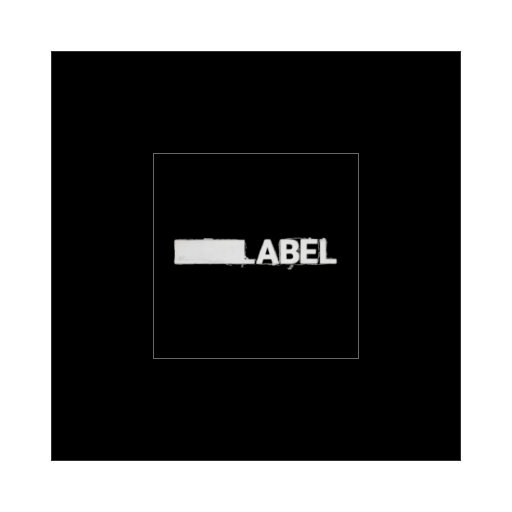
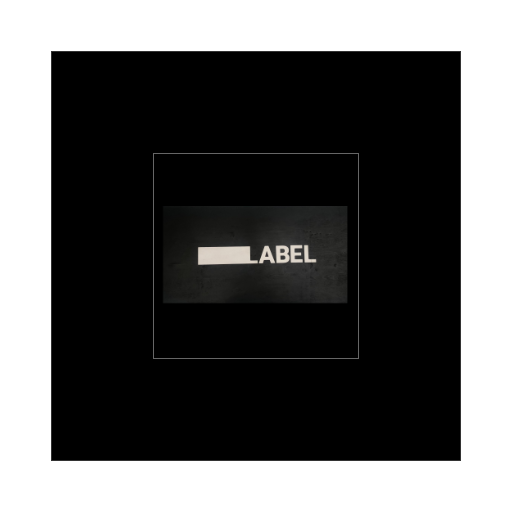
ffflabel2

Changed region(s): [[0.3125, 0.375, 0.6875, 0.5938]]

diff --git a/mobile.html b/mobile.html
@@ -18,7 +18,11 @@
         <a-box color="tomato"></a-box>
     </a-marker>
     <a-marker type="pattern" preset="custom" url="https://raw.githubusercontent.com/lump1k/arjs/master/markers/ffflabel.patt">
-        <a-entity geometry="primitive:box" material="shader:gif;src:url(https://raw.githubusercontent.com/lump1k/arjs/master/images/galley.gif);" gif=""></a-entity>
+        <a-entity geometry="primitive:box" material="shader:gif;src:url(https://raw.githubusercontent.com/lump1k/arjs/master/images/galley.gif);" gif="" scale="2 3 2"></a-entity>
+    </a-marker>
+
+    <a-marker type="pattern" preset="custom" url="https://raw.githubusercontent.com/lump1k/arjs/master/markers/ffflabel2.patt">
+        <a-entity geometry="primitive:box" material="shader:gif;src:url(https://raw.githubusercontent.com/lump1k/arjs/master/images/galley.gif);" gif="" scale="2 3 2"></a-entity>
     </a-marker>
 
     <a-marker type="pattern" preset="custom" url="https://raw.githubusercontent.com/lump1k/arjs/master/markers/fish.patt">
